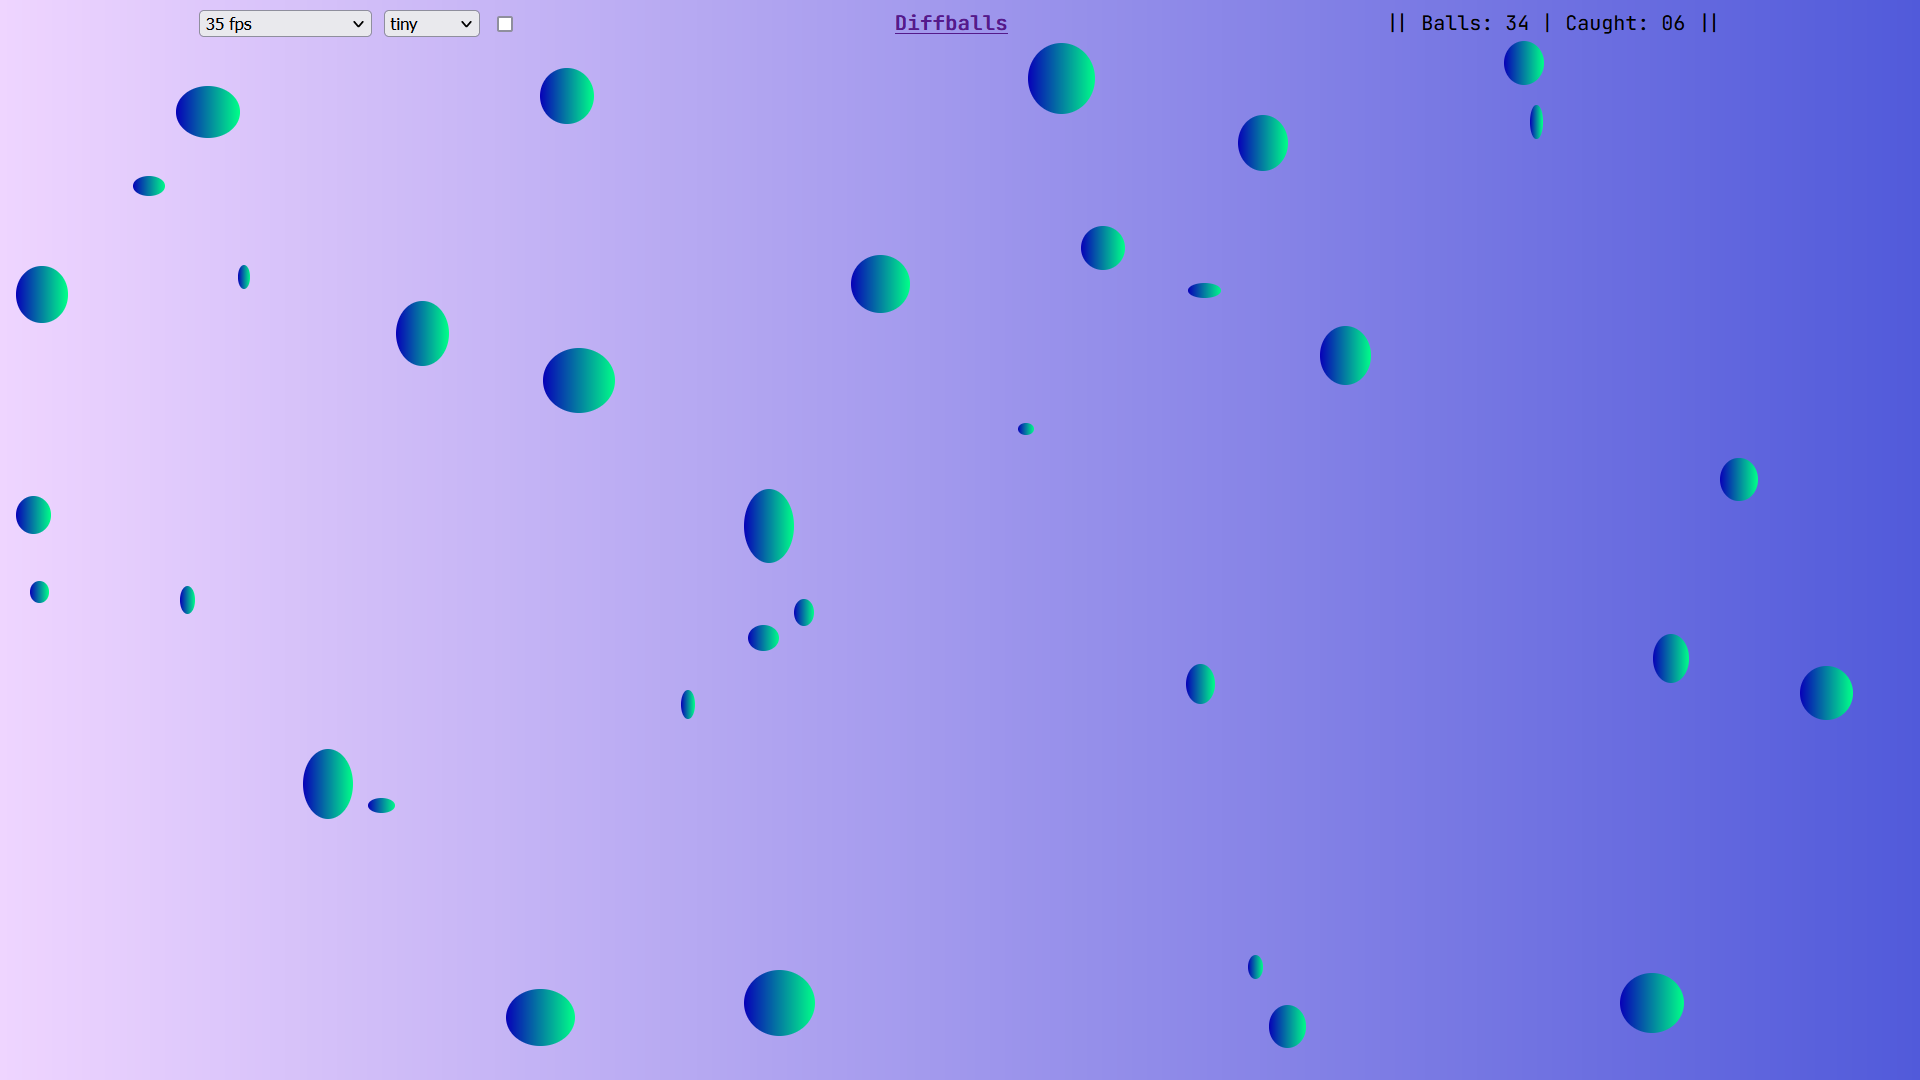
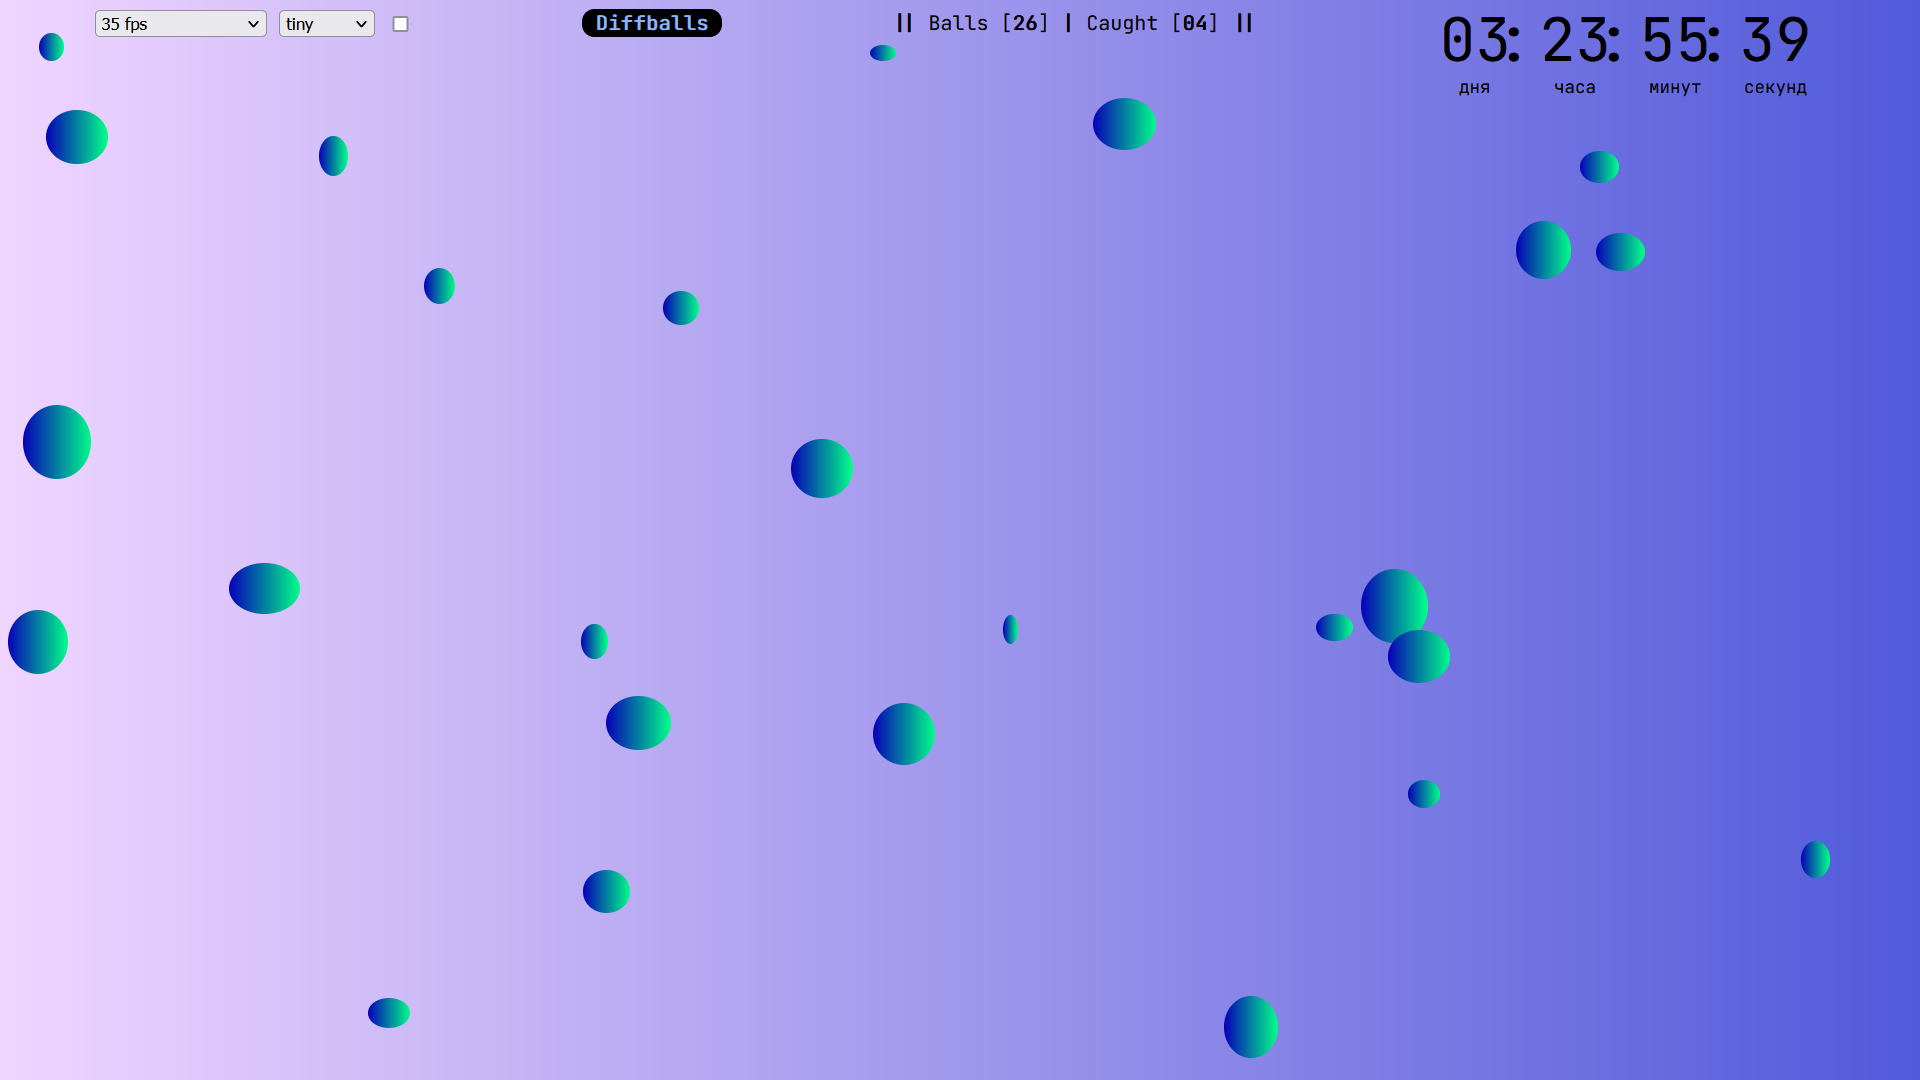
Diffballs (4)
- fixes
- header update

diff --git a/diffballs/main.js b/diffballs/main.js
@@ -5,6 +5,7 @@
  * |   MaksymMNM                |
  * https://github.com/wert1x
  * https://github.com/arschedev
+ * https://github.com/MaksymMNM
  */
 
 const DEV = true;
@@ -21,10 +22,10 @@ let caught_counter = document.getElementById('caught');
  */
 
 let params = {
-      fps: 35,
-      size: 40,
-      border: false
-    };
+  fps: 35,
+  size: 40,
+  border: false
+};
 
 // to default
 document.getElementById('fps').value = params.fps;
@@ -149,10 +150,10 @@ function Update() {
 
     // bounce off container walls
     /* collision check && change position */
-    if (balls[i].x < 0 || balls[i].x > window.innerWidth - balls[i].w - 16) /* FIXME */
+    if (balls[i].x < 0 || balls[i].x > window.innerWidth - balls[i].w - 8 * 2) /* FIXME */
       balls[i].xS *= -1;
     /* collision check && change position */
-    if (balls[i].y < 0 || balls[i].y > window.innerHeight - balls[i].h - 16) /* FIXME */
+    if (balls[i].y < 0 || balls[i].y > window.innerHeight - balls[i].h - 8 * 2) /* FIXME */
       balls[i].yS *= -1;
 
     // apply position
@@ -182,17 +183,20 @@ function Update() {
 
 /**
  * ! TIMER
+ * TODO
  */
 
 document.addEventListener('DOMContentLoaded', function() {
   // конечная дата, например 1 июля 2021
-  const deadline = new Date(2022, 09, 05);
-   // id таймера
+  const deadline = new Date(2022, 9, 5);
+  // id таймера
   let timerId = null;
+
   // склонение числительных
   function declensionNum(num, words) {
     return words[(num % 100 > 4 && num % 100 < 20) ? 2 : [2, 0, 1, 1, 1, 2][(num % 10 < 5) ? num % 10 : 5]];
   }
+
   // вычисляем разницу дат и устанавливаем оставшееся времени в качестве содержимого элементов
   function countdownTimer() {
     const diff = deadline - new Date();
@@ -212,6 +216,7 @@ document.addEventListener('DOMContentLoaded', function() {
     $minutes.dataset.title = declensionNum(minutes, ['минута', 'минуты', 'минут']);
     $seconds.dataset.title = declensionNum(seconds, ['секунда', 'секунды', 'секунд']);
   }
+
   // получаем элементы, содержащие компоненты даты
   const $days = document.querySelector('.timer__days');
   const $hours = document.querySelector('.timer__hours');

diff --git a/diffballs/styles.css b/diffballs/styles.css
@@ -25,8 +25,33 @@ body {
     display: flex;
     justify-content: space-around;
     flex-wrap: wrap;
+    row-gap: 5px;
 }
 
+/* title */
+#title {
+    padding: 1px;
+    background: #000;
+    border-radius: 10px;
+    color: #8AB4F8;
+    text-decoration: none;
+}
+
+#title:hover {
+    text-decoration: underline;
+}
+
+/* counters */
+#counters span {
+    font-weight: bold;
+}
+
+#counters > .separator {
+    font-style: normal;
+    font-weight: bold;
+}
+
+/* game */
 #container {
     /* border: 2px dashed #000; */
 }
@@ -38,32 +63,40 @@ body {
     background: linear-gradient(90deg, #0700b8 0%, #00ff88 100%);
 }
 
+/* */
+/* timer */
+/* */
+.timer {
+    margin-top: -8px;
+    margin-bottom: 8px;
+}
+
 .timer__items {
-  display: flex;
-  font-size: 48px;
+    display: flex;
+    font-size: 48px;
 }
 
 .timer__item {
-  position: relative;
-  min-width: 60px;
-  margin-left: 10px;
-  margin-right: 10px;
-  padding-bottom: 15px;
-  text-align: center;
+    position: relative;
+    min-width: 60px;
+    margin-left: 10px;
+    margin-right: 10px;
+    padding-bottom: 15px;
+    text-align: center;
 }
 
 .timer__item::before {
-  content: attr(data-title);
-  display: block;
-  position: absolute;
-  left: 50%;
-  bottom: 0;
-  transform: translateX(-50%);
-  font-size: 14px;
+    content: attr(data-title);
+    display: block;
+    position: absolute;
+    left: 50%;
+    bottom: 0;
+    transform: translateX(-50%);
+    font-size: 14px;
 }
 
 .timer__item:not(:last-child)::after {
-  content: ':';
-  position: absolute;
-  right: -15px;
+    content: ':';
+    position: absolute;
+    right: -15px;
 }

diff --git a/diffballs/index.html b/diffballs/index.html
@@ -39,22 +39,27 @@
         </label>
     </div>
     <!--Title-->
-
+    <div>
+        <a id="title" href="https://github.com/arschedev/arschedev.github.io/tree/main/diffballs"><b>&nbsp;Diffballs&nbsp;</b></a>
+    </div>
     <!--Counters-->
     <div>
-        <a>||</a>
-        <a>Balls: <span id="balls">00</span></a>
-        <a>|</a>
-        <a>Caught: <span id="caught">00</span></a>
-        <a>||</a>
+        <div id="counters">
+            <a class="separator">||</a>
+            <a>Balls [<span id="balls">00</span>]</a>
+            <a class="separator">|</a>
+            <a>Caught [<span id="caught">00</span>]</a>
+            <a class="separator">||</a>
+        </div>
     </div>
+    <!--Timer-->
     <div class="timer">
-      <div class="timer__items">
-        <div class="timer__item timer__days">00</div>
-        <div class="timer__item timer__hours">00</div>
-        <div class="timer__item timer__minutes">00</div>
-        <div class="timer__item timer__seconds">00</div>
-      </div>
+        <div class="timer__items">
+            <div class="timer__item timer__days">00</div>
+            <div class="timer__item timer__hours">00</div>
+            <div class="timer__item timer__minutes">00</div>
+            <div class="timer__item timer__seconds">00</div>
+        </div>
     </div>
 </div>
 <!--Game-->

diff --git a/diffballs/container.js b/diffballs/container.js
@@ -7,6 +7,7 @@ function _adapt_() {
   // container
   /* note: container was initialized in main.js */
   /* note: 8 - browser default body margin */
+  /* note: 2 - number of margins or something, not really intuitive, but it works */
   container.style.height =
       (window.innerHeight - header.offsetHeight - 8 * 2) + 'px';
 }
